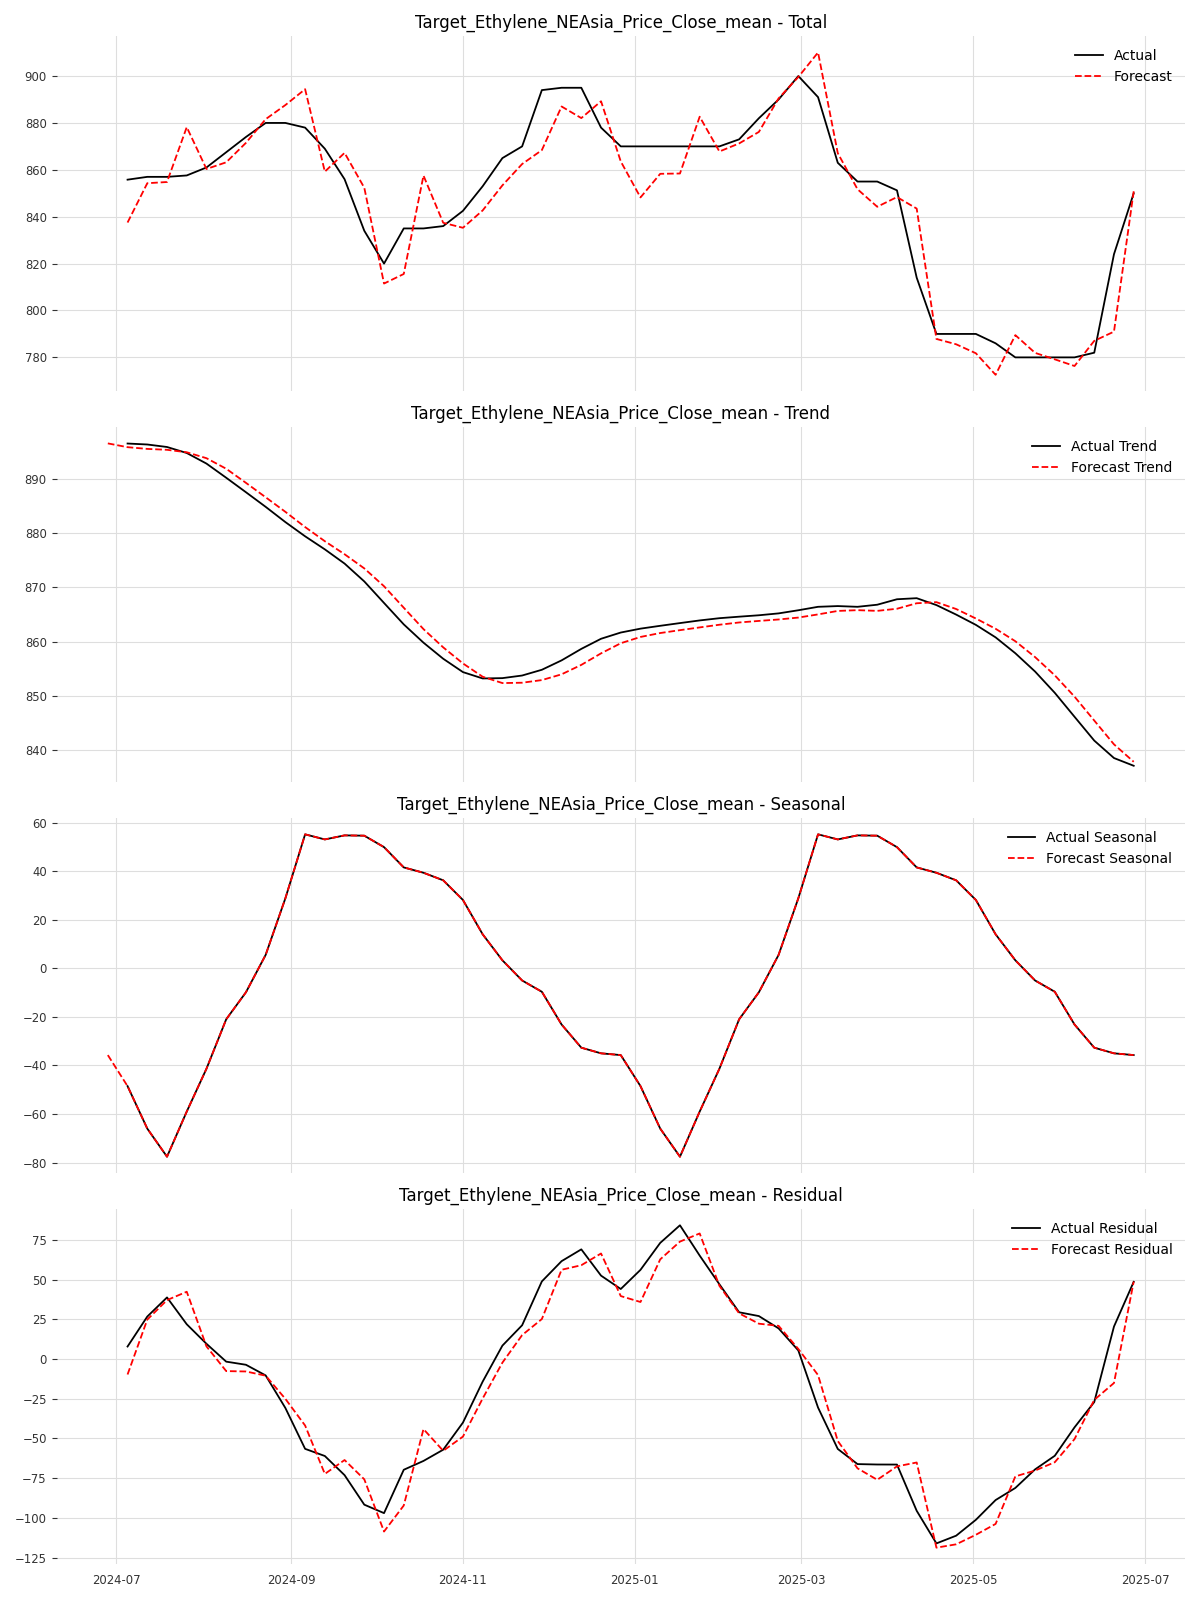
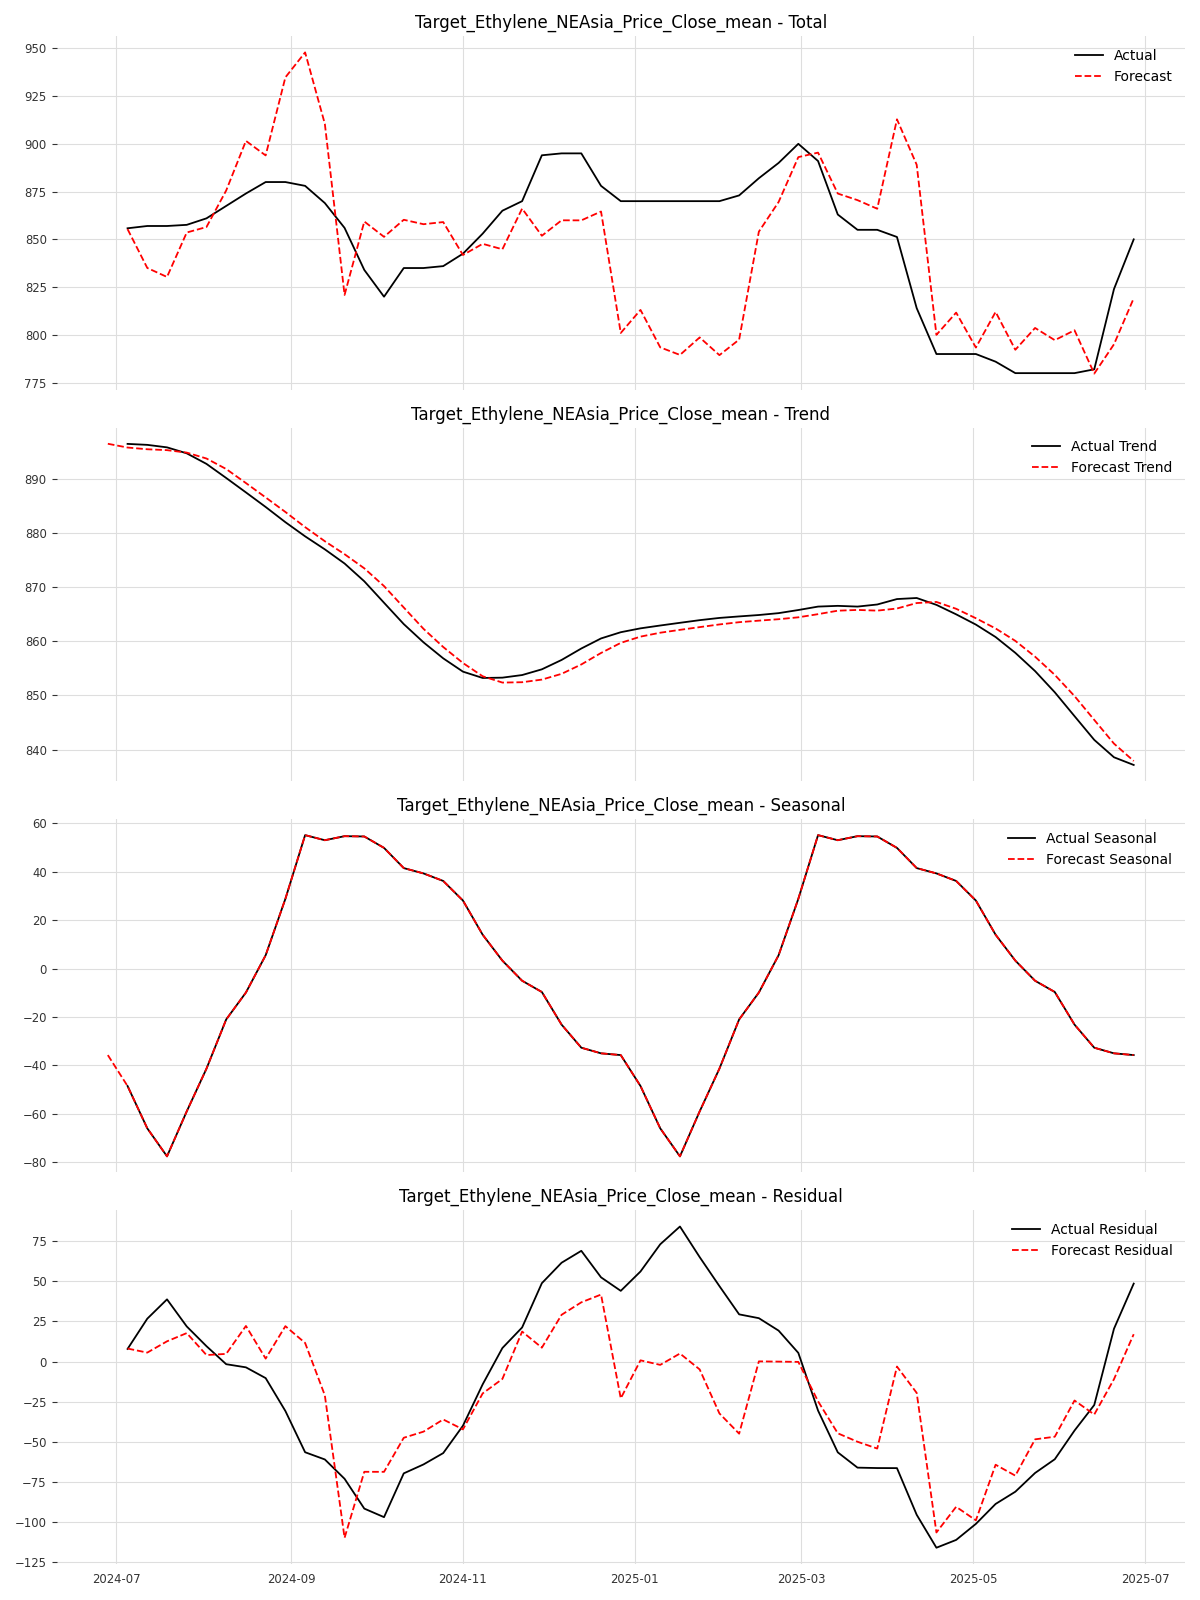
Add other price features as exog

diff --git a/varima_forecasting.py b/varima_forecasting.py
@@ -426,10 +426,18 @@ def run_varima_pipeline():
         return
 
     # Differencing
-    diff_trasformer = Diff()
+    diff_trasformer = Diff(lags=1)
     train_res_cov = diff_trasformer.fit_transform(train_res_multi)
     full_res_cov = diff_trasformer.transform(full_res_multi)
 
+    # Add other exogenous variables
+    train_exog_multi = TimeSeries.from_dataframe(train_df.drop(columns=targets)).slice_intersect(train_res_cov)
+    full_exog_multi = TimeSeries.from_dataframe(full_df.drop(columns=targets)).slice_intersect(full_res_cov)
+    
+    train_res_cov = train_res_cov.concatenate(train_exog_multi, axis=1)
+    full_res_cov = full_res_cov.concatenate(full_exog_multi, axis=1)
+
+    # Fill missing values
     missing_filler = MissingValuesFiller(fill=0.0)
     train_res_future_cov = missing_filler.transform(train_res_cov.shift(1))
     full_res_future_cov = missing_filler.transform(full_res_cov.shift(1))
